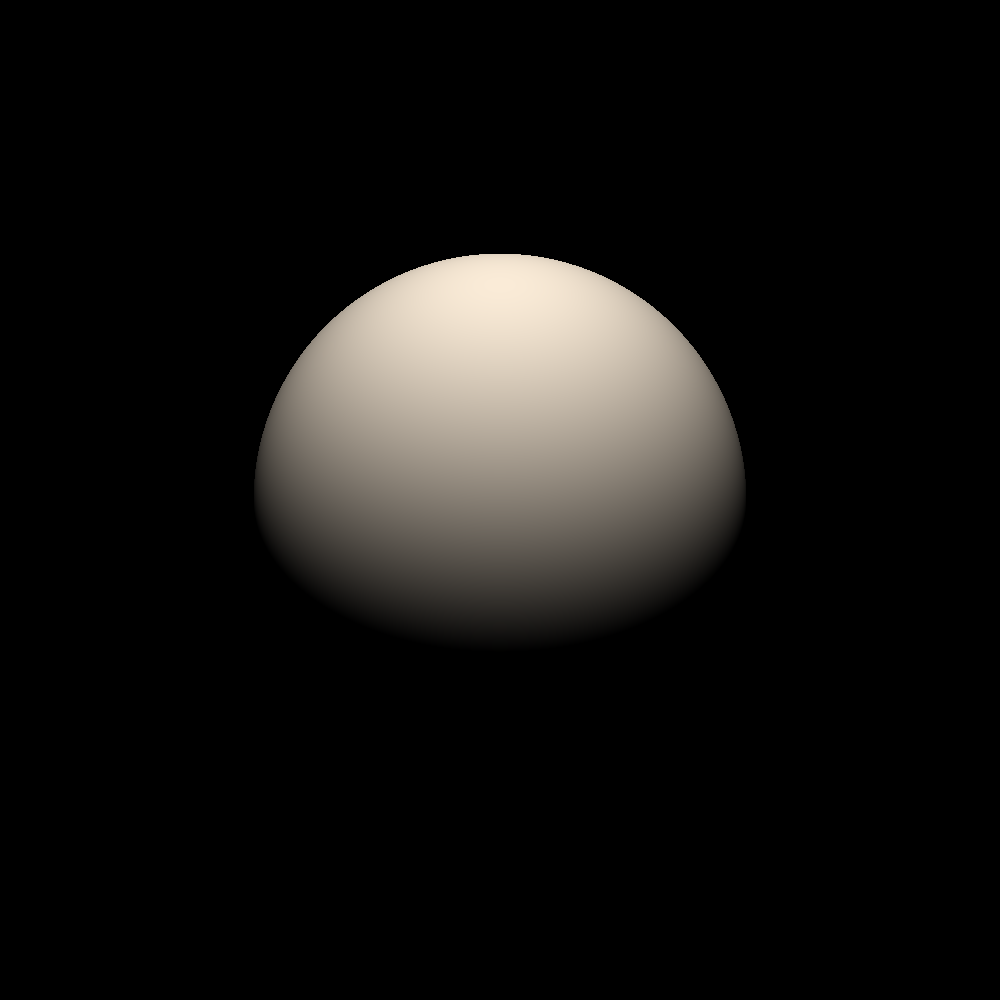
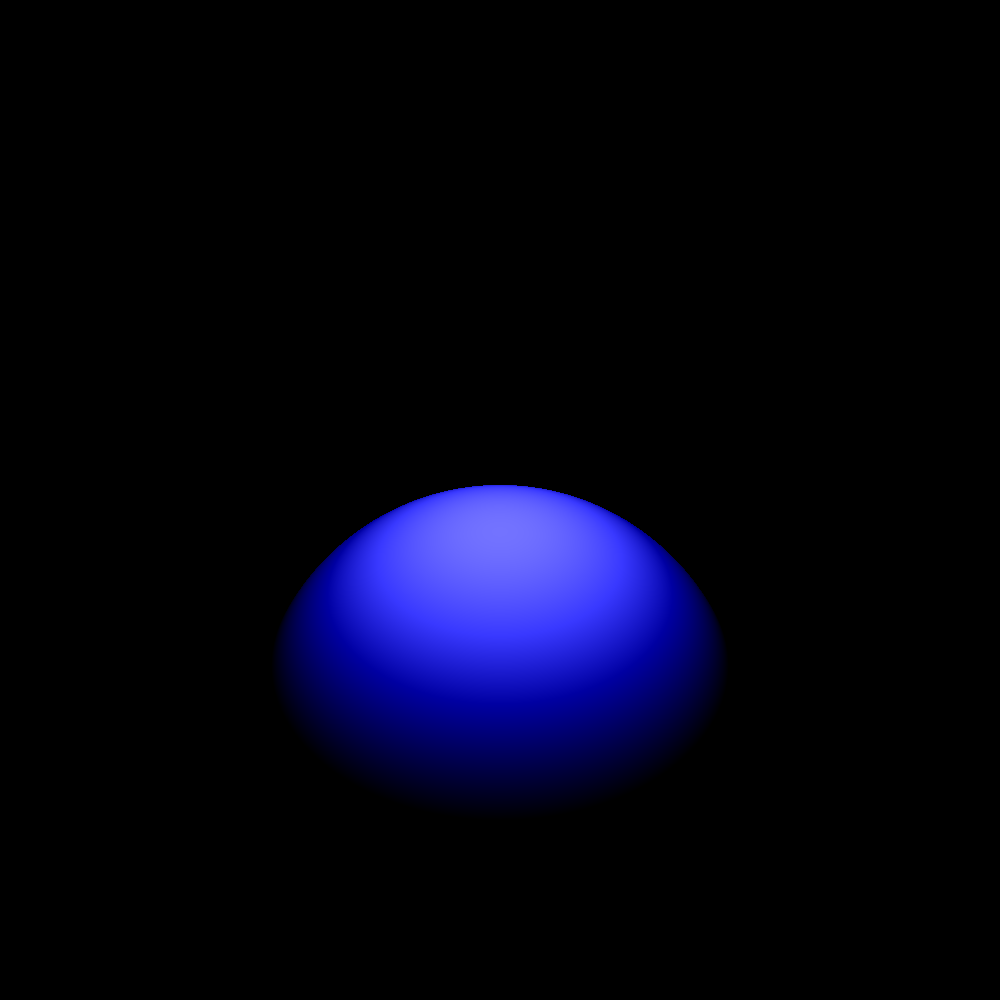
Phong reflection model working

Changed region(s): [[0.248, 0.248, 0.744, 0.806]]

diff --git a/RayTracer/Renderer.cs b/RayTracer/Renderer.cs
@@ -80,24 +80,45 @@ public class Renderer
         if (minDist == float.MaxValue || minDist == -1)
             return bgColor;
 
-        float lightIntensity = 0;
         inter = objects[min].RayIntersectPoint(position, direction);
 
+        float AmbientLight = 0;
+        float lightIntensity = objects[min].material.ambientReflection * AmbientLight;
+        float diffuseLight = 0,
+            specularIntensity = 0;
         foreach (LightSource light in lightSources)
         {
             if (inter is not null)
             {
-                float factor = Math.Max(
-                    Vector3.Dot(
-                        objects[min].GetNormalVector((Vector3)inter),
-                        Vector3.Normalize(light.position - (Vector3)inter)
-                    ),
-                    0
-                );
+                // float factor = Math.Max(
+                //     Vector3.Dot(
+                //         objects[min].GetNormalVector((Vector3)inter),
+                //         Vector3.Normalize(light.position - (Vector3)inter)
+                //     ),
+                //     0
+                // );
 
-                lightIntensity += light.intensity * factor;
+                //lightIntensity += light.intensity * factor;
+
+                Vector3 N = objects[min].GetNormalVector((Vector3)inter);
+                Vector3 lightDir = Vector3.Normalize((Vector3)inter - light.position);
+                diffuseLight +=
+                    light.diffuseIntensity
+                    * objects[min].material.diffuseReflection
+                    * Math.Max(0, -Vector3.Dot(lightDir, N));
+
+                Vector3 R = 2 * Math.Min(0, Vector3.Dot(lightDir, N)) * N - lightDir;
+
+                specularIntensity +=
+                    light.specularIntensity
+                    * objects[min].material.specularReflection
+                    * (float)
+                        Math.Pow((double)Vector3.Dot(lightDir, R), objects[min].material.shininess);
             }
         }
-        return (Color)((Vector4)objects[min].color * lightIntensity);
+        return (Color)(
+            (Vector4)objects[min].material.color * diffuseLight
+            + new Vector4(1, 1, 1, 1) * specularIntensity
+        );
     }
 }

diff --git a/RayTracerConsole/Program.cs b/RayTracerConsole/Program.cs
@@ -13,11 +13,11 @@ namespace RayTracer
             List<IObject> objects = new List<IObject>();
 
             List<LightSource> lightSources = new List<LightSource>();
-            lightSources.Add(new LightSource(new Vector3(0, y: 100, 0), 1f, 1f));
+            lightSources.Add(new LightSource(new Vector3(0, y: 100, 0), 1.5f, 1.5f));
 
-            objects.Add(
-                new Sphere(radius: 16, new Vector3(x: 0, 0, -80), new Material(1, 1, 1, 1))
-            );
+            Material m = new Material(.3f, .6f, 0f, 1f, Color.Blue);
+
+            objects.Add(new Sphere(radius: 16, new Vector3(x: 0, -15, -80), m));
 
             Renderer rd = new Renderer(width, height, new Vector3(0, 0, 0), new Vector3(0, 0, 0));
 

diff --git a/RayTracer/Material.cs b/RayTracer/Material.cs
@@ -4,17 +4,20 @@ public class Material
         diffuseReflection,
         ambientReflection,
         shininess;
+    public Color color;
 
     public Material(
         float specularReflection,
         float diffuseReflection,
         float ambientReflection,
-        float shininess
+        float shininess,
+        Color color
     )
     {
         this.specularReflection = specularReflection;
         this.diffuseReflection = diffuseReflection;
         this.ambientReflection = ambientReflection;
         this.shininess = shininess;
+        this.color = color;
     }
 }

diff --git a/RayTracer/IObject.cs b/RayTracer/IObject.cs
@@ -2,7 +2,6 @@ using System.Numerics;
 
 public interface IObject
 {
-    public Color color { get; set; }
     public Material material { get; set; }
     public abstract Vector3? RayIntersectPoint(Vector3 origin, Vector3 direction);
     public abstract bool RayIntersect(Vector3 origin, Vector3 direction);
